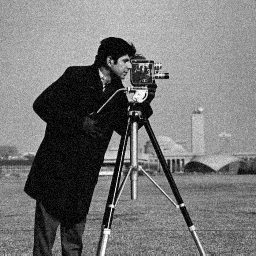
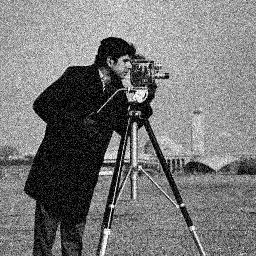
fix: set parameters from official bm3d implementation

diff --git a/examples/demo.py b/examples/demo.py
@@ -30,10 +30,12 @@ def main(imagePath: str="data/cameraman256.png", noiseVariance: int=25) -> None:
         noisyImage = bm3d.addNoise(originalImage, noiseVariance)
 
         profile = bm3d.BM3DProfile(
-            distanceThreshold=80,
-            filterThreshold=2.85,
+            distanceThreshold=3000,
+            filterThreshold=2.75,
             searchWindow=10,
-            blockStep=10,
+            blockStep=3,
+            blockSize=8,
+            groupMaxSize=16,
             stages=BM3DStages.BOTH_STAGES,
             cores=-1
         )
@@ -119,7 +121,7 @@ def parseArguments() -> argparse.Namespace:
         "-s",
         "--sigma",
         type=int,
-        default=10,
+        default=25,
         help="Noise variance",
         metavar="\b",
     )
